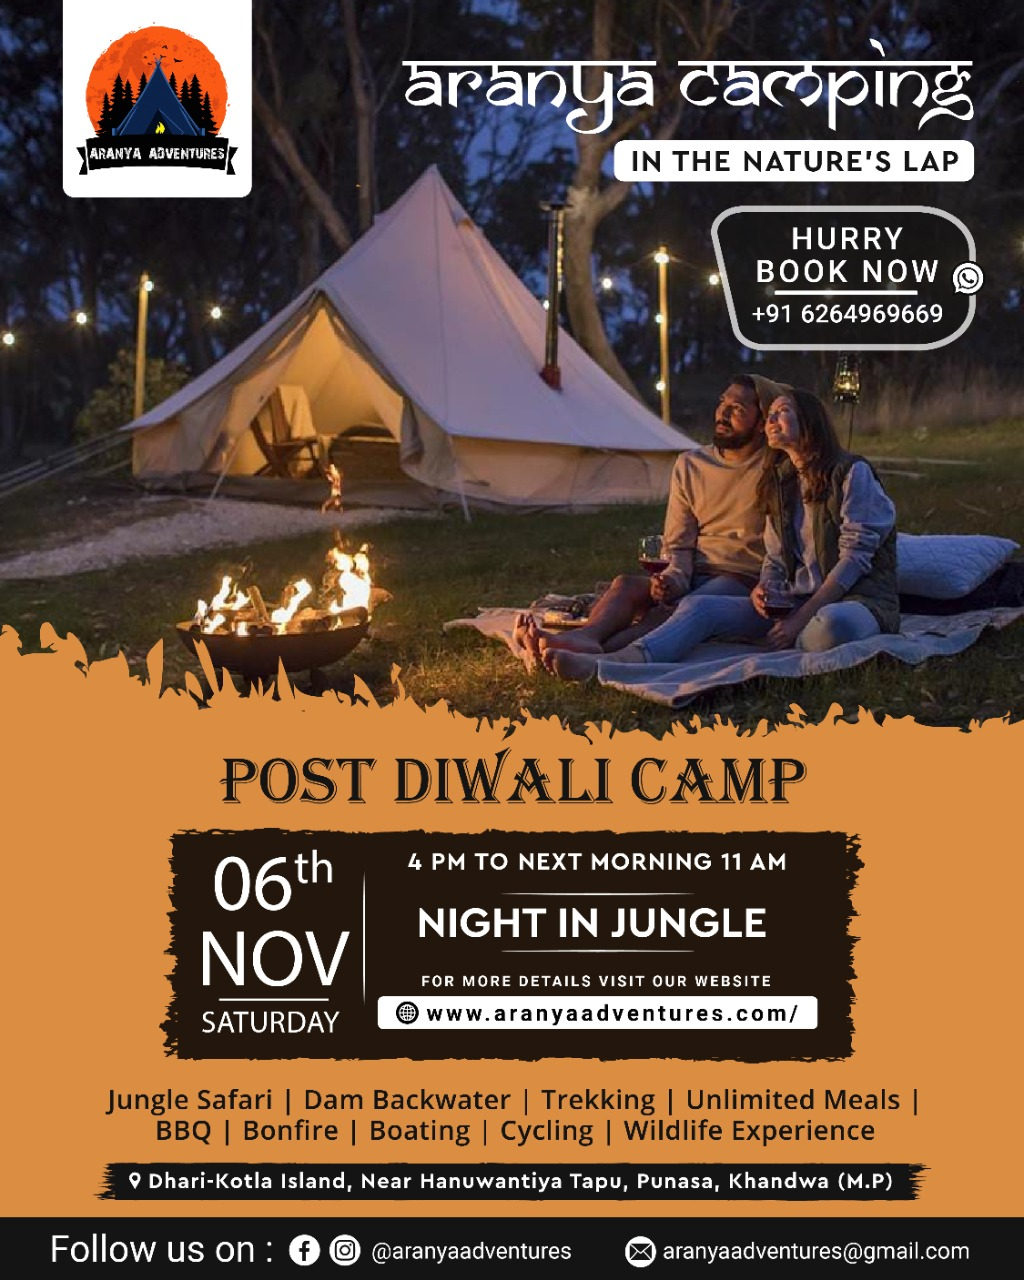
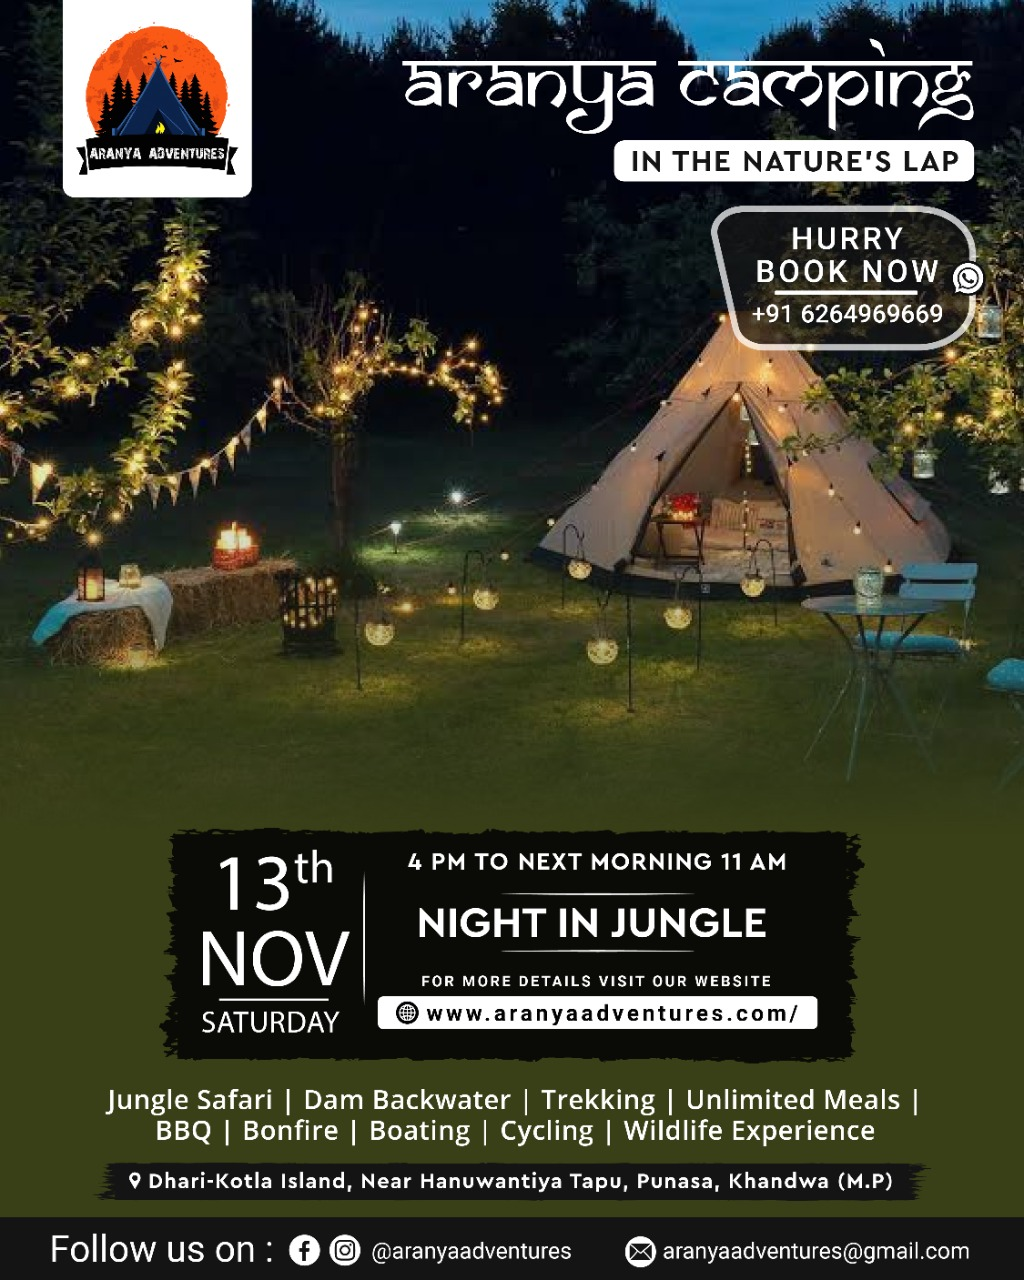
Added new poster

diff --git a/index.html b/index.html
@@ -269,12 +269,9 @@
                 </div> <!-- end of col -->
                 <div class="col-lg-5 col-xl-6">
                     <div class="image-container">
-                        <!-- <h2>Upcoming Dates</h2> -->
-                        <img src="./img/tents.jpg" style="height: 100%; width: 100%;" alt="">
-                    </div> <!-- end of image-container -->
-                    <div class="image-container">
-                        <img src="./gallery/gallery-images/Aranya Campsite/Campsite4.jpg" style="height: 100%; width: 100%;" alt="">
-                    </div> <!-- end of image-container -->
+                        <h2>Upcoming Dates</h2>
+                        <img src="./img/poster.jpeg" style="height: 100%; width: 100%;" alt="">
+                    </div>
                 </div> <!-- end of col -->
             </div> <!-- end of row -->
         </div> <!-- end of container -->
